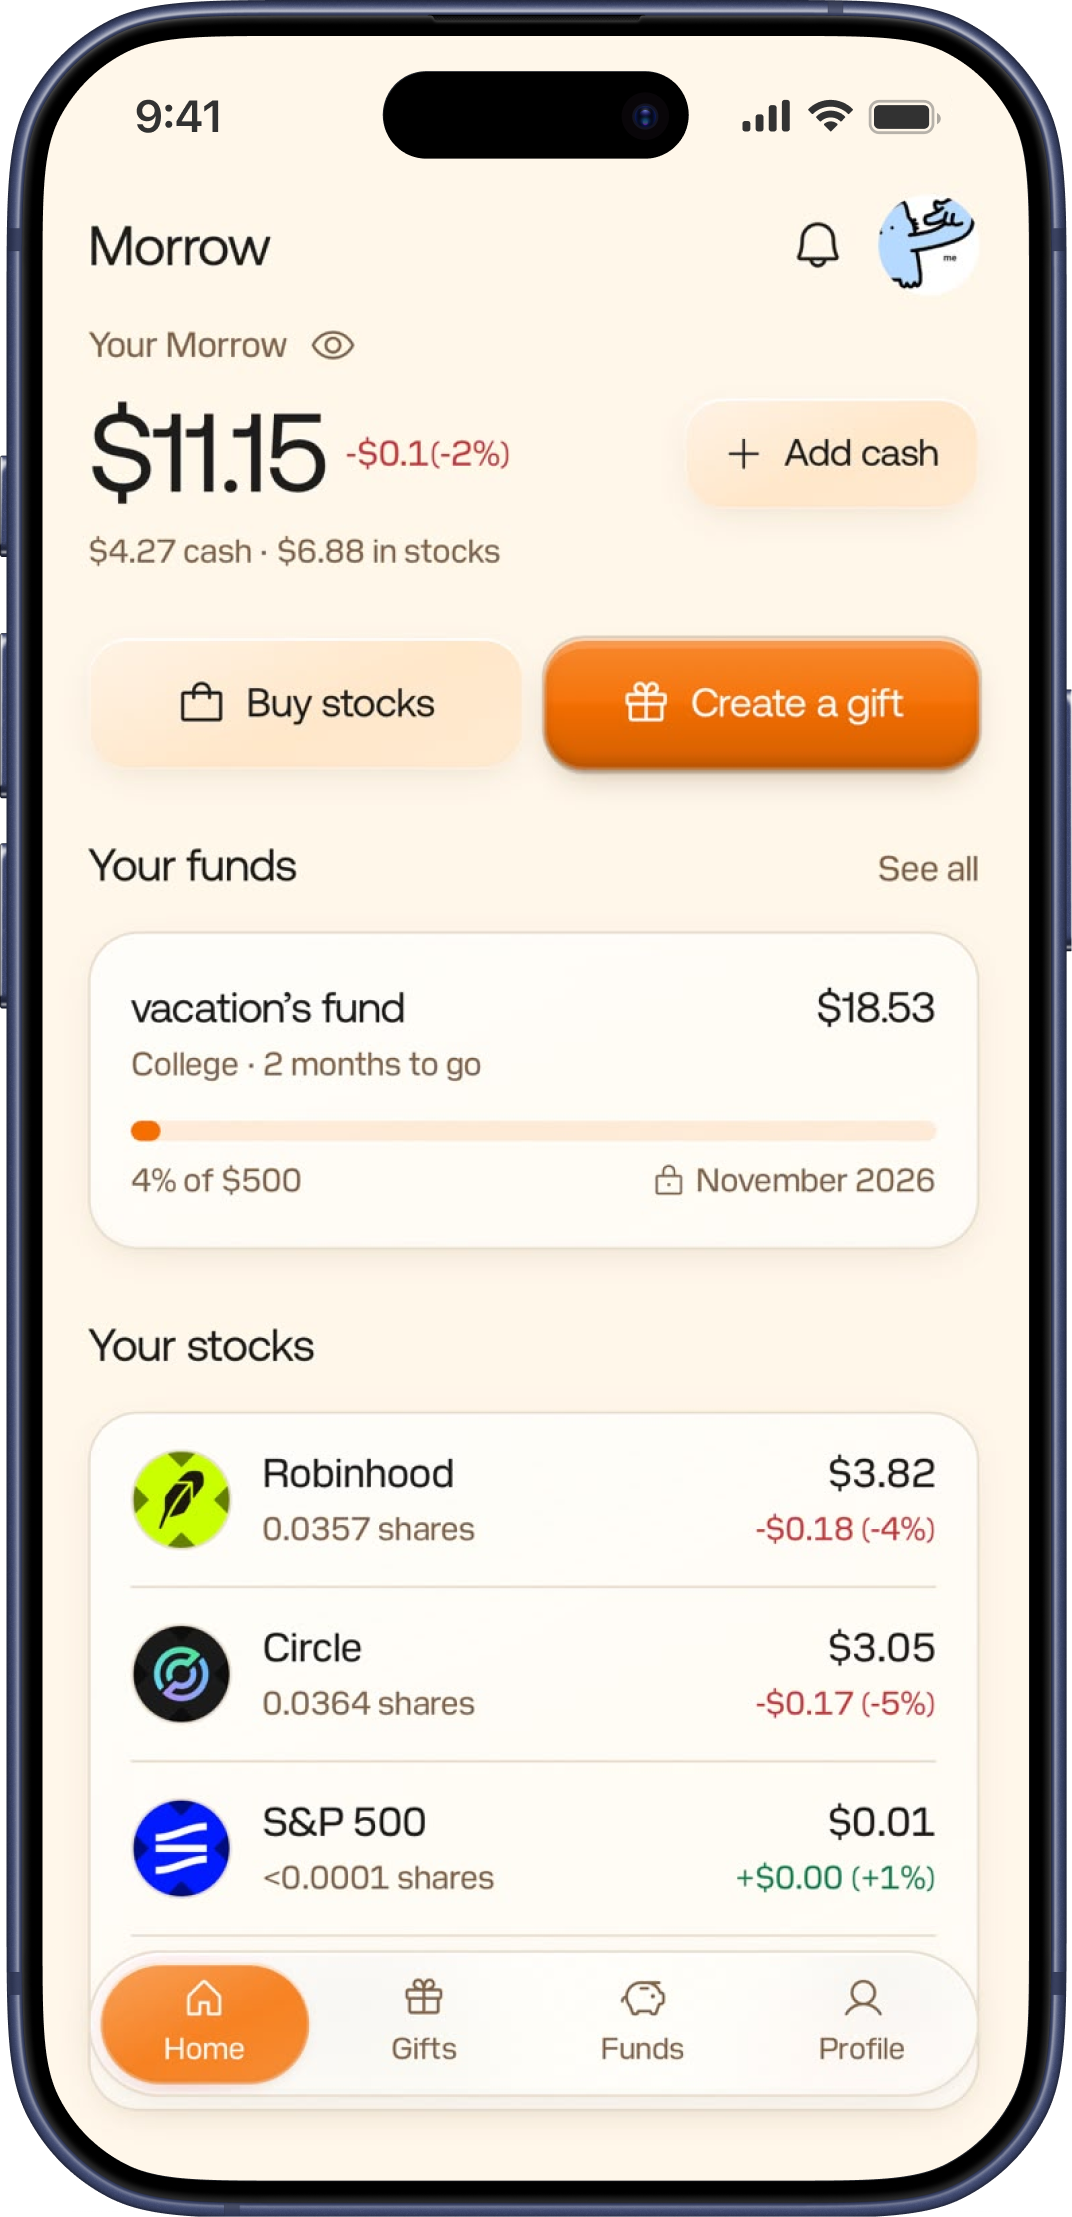
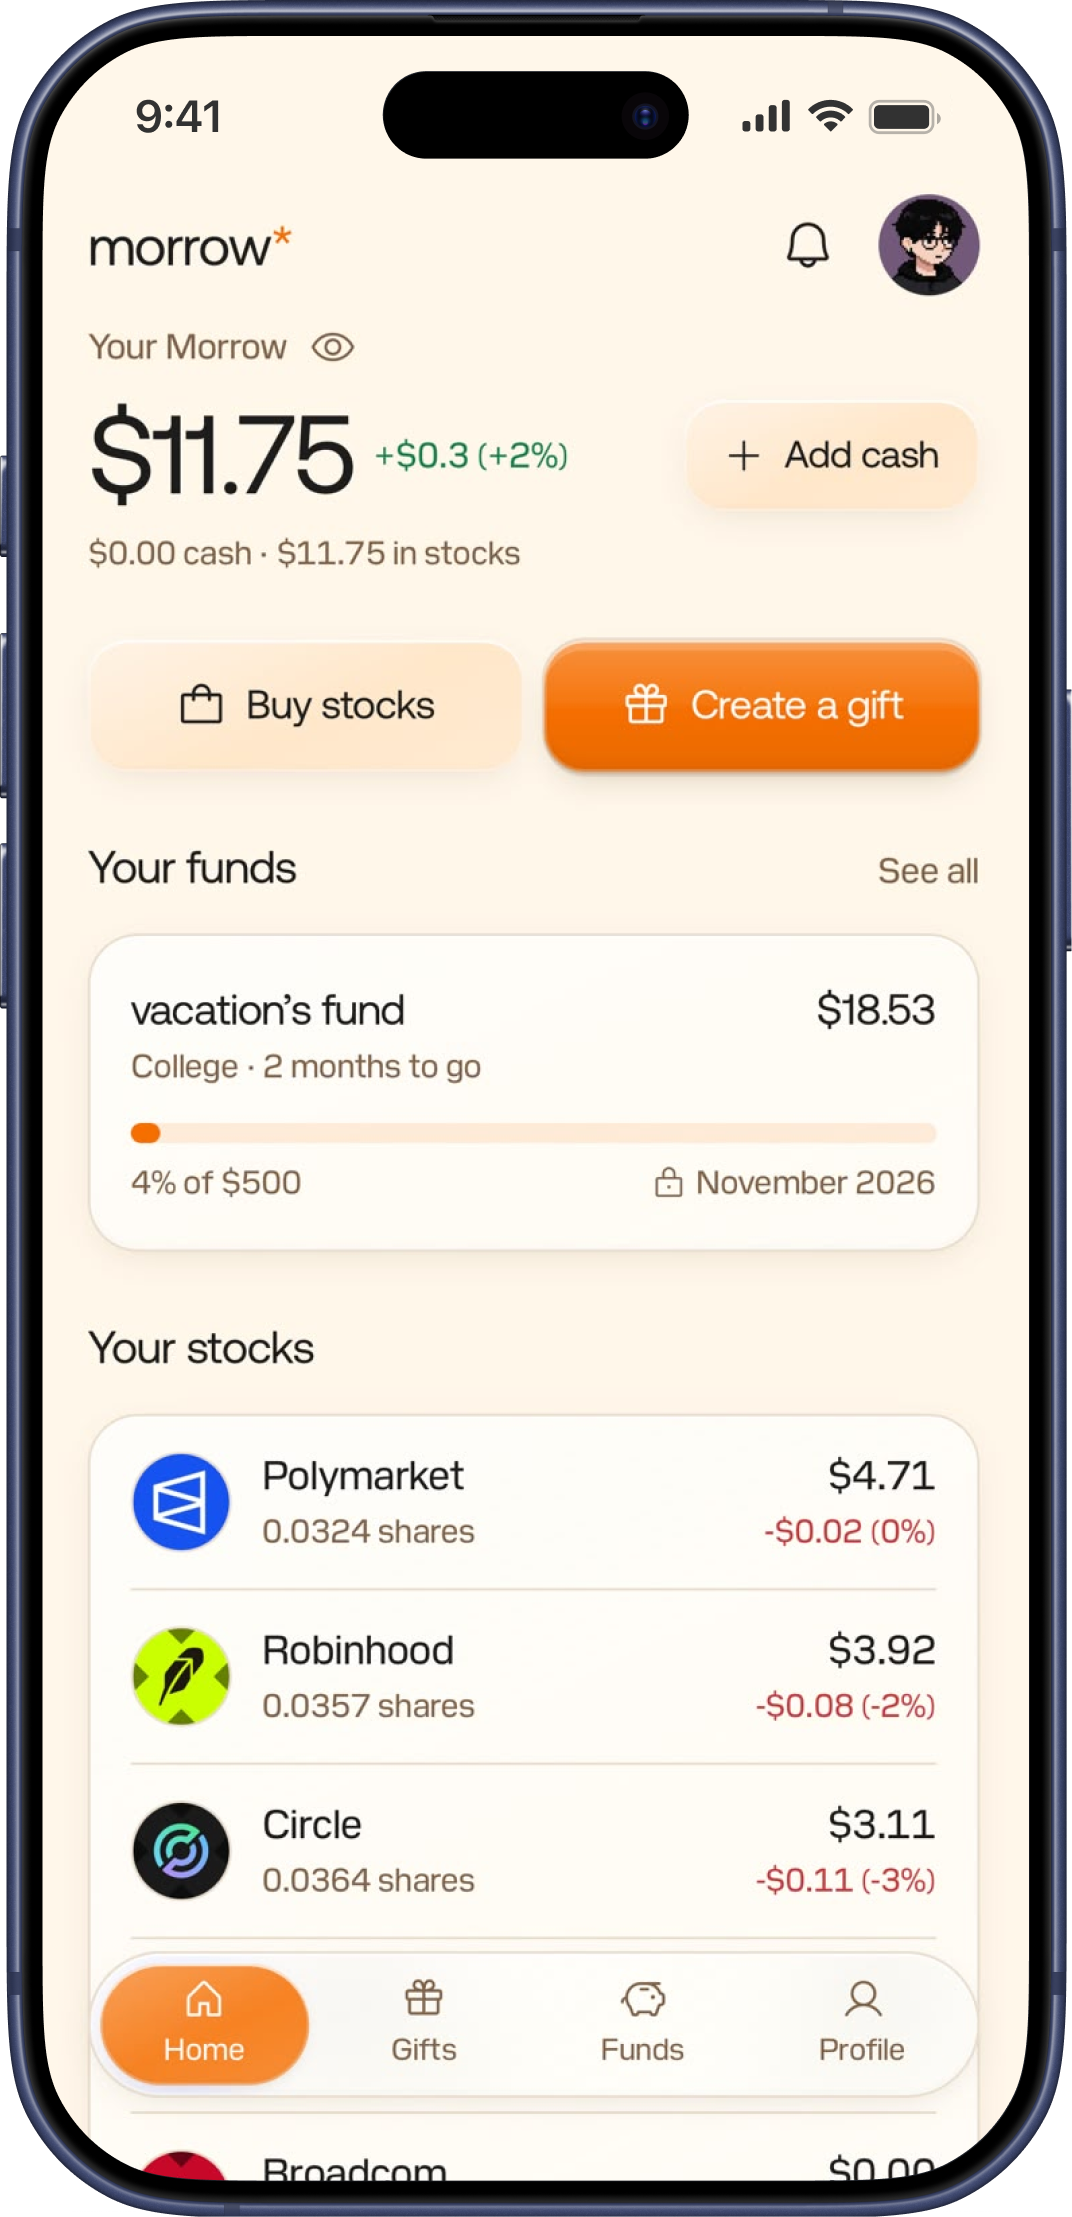
feat(landing): put buying and selling next to gifting
Trading was only visible inside the app tour, so the page read as gifts
alone. The hero now says "Buy, gift, grow.", the meta title and description
lead with buying and selling shares, the feature card covers selling back to
cash, and the cluster gains a card for it beside the gift.

Footer socials lose the pastel cards for plain icon links.

diff --git a/apps/landing/src/lib/components/home-content.svelte b/apps/landing/src/lib/components/home-content.svelte
@@ -16,16 +16,16 @@ import StockMark from './stock-mark.svelte'
 
 const tourScreens = [
   {
+    src: '/images/buy-screen.png',
+    title: 'Buy a little',
+    text: 'Search 142 stocks and Pre-IPO stocks, then start trade.',
+    icon: MagnifyingGlassIcon,
+  },
+  {
     src: '/images/trade-screen.png',
     title: 'Trade in a tap',
     text: 'Live prices, simple charts, and one-tap buys.',
     icon: CurrencyDolarIcon,
-  },
-  {
-    src: '/images/buy-screen.png',
-    title: 'Buy a little',
-    text: 'Search 142 stocks and start with a fraction of a share.',
-    icon: MagnifyingGlassIcon,
   },
   {
     src: '/images/fund-screen.png',
@@ -84,15 +84,15 @@ onMount(() => {
           id="hero-title"
           class="mx-auto max-w-page font-sans text-[clamp(48px,8.8vw,126px)] leading-[0.92] tracking-[-0.075em]"
         >
-          <span class="block">A little gift,</span><span class="block text-orange"
+          <span class="block">Buy, gift, grow.</span><span class="block text-orange"
             >A big tomorrow.</span
           >
         </h1>
         <p
           class="mx-auto mt-7 max-w-90 text-sm leading-relaxed text-stone md:max-w-110 md:text-base"
         >
-          Give stocks. Send cash. Build a future together.<br class="hidden sm:block" /> A little today
-          can mean a lot tomorrow.
+          Send cash, Buy stocks, Gift them. Build a future together.<br class="hidden sm:block" /> A little
+          today can mean a lot tomorrow.
         </p>
         <a
           href="https://app.trymorrow.money/login"
@@ -142,8 +142,8 @@ onMount(() => {
         </div>
       </div>
       <p class="relative z-30 mt-6 hidden px-5 pb-2 text-xs text-stone md:block">
-        <span class="mr-1.5 rounded-full bg-sun px-2.5 py-1 text-ink">Tiny fees</span> Most gifts cost
-        under 50¢ to send.
+        <span class="mr-1.5 rounded-full bg-sun px-2.5 py-1 text-ink">Tiny fees</span> Most gifts and
+        trades cost under 50¢ to send.
       </p>
       <div
         class="relative z-30 mx-auto hidden max-w-page items-center justify-between gap-4 px-6 pt-2 pb-10 text-[10px] text-stone sm:flex md:px-10 md:text-xs"
@@ -305,9 +305,9 @@ onMount(() => {
             <div class="flex justify-between">
               <StockMark stock="nvidia" color="#fffefb" /><Icon name="chart" size={20} />
             </div>
-            <p class="mt-5 text-xs">A gifts for you.</p>
-            <p class="mt-1 font-sans text-4xl tracking-tighter">Big potential.</p>
-            <p class="mt-4 text-[10px] text-stone">Start with a fraction of a share.</p>
+            <p class="mt-5 text-xs">Nvidia, from a few dollars.</p>
+            <p class="mt-1 font-sans text-4xl tracking-tighter">Start small.</p>
+            <p class="mt-4 text-[10px] text-stone">Fractions of a share, priced live.</p>
           </div>
           <div
             class="gather-card gather-two absolute top-[7%] right-[16%] z-30 w-55 rotate-[9deg] rounded-3xl bg-[#ded1f1] p-5"
@@ -334,7 +334,7 @@ onMount(() => {
           <div
             class="gather-card gather-four absolute top-[66%] right-[13%] z-20 w-57.5 rotate-12 rounded-3xl bg-[#f0d8cd] p-5"
           >
-            <span class="text-[10px] tracking-widest">THE BEST KIND OF NOTIFICATION</span>
+            <span class="text-[12px]">The best kind notification</span>
             <div class="my-5 flex size-12 items-center justify-center rounded-full bg-surface">
               <Icon name="heart" size={25} />
             </div>
@@ -409,9 +409,10 @@ onMount(() => {
             </div>
           </div>
           <div class="px-2 pt-5">
-            <h3 class="text-xl">Big companies. Your little piece.</h3>
+            <h3 class="text-xl">Buy and sell, a little at a time.</h3>
             <p class="mt-2 max-w-92.5 text-sm leading-relaxed text-stone">
-              Buy a fraction of a share in companies you know. Build a portfolio at your own pace.
+              Buy a fraction of a share in companies you know, watch live prices and simple charts,
+              and sell back to cash whenever you like.
             </p>
           </div>
         </article>

diff --git a/apps/landing/src/lib/components/home-footer.svelte b/apps/landing/src/lib/components/home-footer.svelte
@@ -1,32 +1,10 @@
 <script lang="ts">
 import SocialIcon from './social-icon.svelte'
 
-// Pastel tiles reuse the gift card colors from the sections above.
 const socials = [
-  {
-    name: 'x',
-    label: 'X',
-    handle: '@trymorrow',
-    href: 'https://x.com/trymorrow',
-    color: 'bg-sun',
-    tilt: '-rotate-2',
-  },
-  {
-    name: 'reddit',
-    label: 'Reddit',
-    handle: 'r/TRYMORROW',
-    href: 'https://www.reddit.com/r/TRYMORROW/',
-    color: 'bg-[#ded1f1]',
-    tilt: 'rotate-1',
-  },
-  {
-    name: 'linkedin',
-    label: 'LinkedIn',
-    handle: 'Morrow',
-    href: 'https://www.linkedin.com/company/trymorrow',
-    color: 'bg-[#dbe7c9]',
-    tilt: '-rotate-1',
-  },
+  { name: 'x', label: 'X', href: 'https://x.com/trymorrow' },
+  { name: 'reddit', label: 'Reddit', href: 'https://www.reddit.com/r/TRYMORROW/' },
+  { name: 'linkedin', label: 'LinkedIn', href: 'https://www.linkedin.com/company/trymorrow' },
 ] as const
 
 const pageLinks = [
@@ -68,7 +46,7 @@ const year = new Date().getFullYear()
         </a>
       </div>
 
-      <ul class="grid gap-3 sm:grid-cols-3 lg:w-150">
+      <ul class="flex items-center gap-2">
         {#each socials as social}
           <li>
             <a
@@ -76,22 +54,9 @@ const year = new Date().getFullYear()
               target="_blank"
               rel="noopener noreferrer"
               aria-label={`Morrow on ${social.label}`}
-              class="footer-pop group flex min-h-20 items-center gap-3 rounded-card p-3 text-ink focus-visible:outline-cream sm:min-h-36 sm:flex-col sm:items-start sm:justify-between sm:p-4 {social.color} {social.tilt}"
+              class="flex size-12 items-center justify-center rounded-full text-cream/70 transition-colors hover:bg-cream/10 hover:text-cream focus-visible:outline-cream"
+              ><SocialIcon name={social.name} /></a
             >
-              <span class="flex size-11 items-center justify-center rounded-button bg-surface"
-                ><SocialIcon name={social.name} /></span
-              >
-              <span class="flex flex-1 items-end justify-between gap-2 self-stretch sm:flex-none">
-                <span>
-                  <span class="block font-sans text-lg leading-tight">{social.label}</span>
-                  <span class="block text-xs text-ink/60">{social.handle}</span>
-                </span>
-                <span
-                  class="text-lg transition-transform duration-300 group-hover:translate-x-0.5 group-hover:-translate-y-0.5"
-                  aria-hidden="true">↗</span
-                >
-              </span>
-            </a>
           </li>
         {/each}
       </ul>
@@ -105,7 +70,7 @@ const year = new Date().getFullYear()
       class="mt-6 flex flex-col-reverse gap-4 border-t border-cream/10 pt-6 text-xs text-steel sm:flex-row sm:items-center sm:justify-between"
     >
       <div class="flex flex-col gap-3 sm:flex-row sm:items-center sm:gap-6">
-        <p>© {year} Morrow. A little gift, a big tomorrow.</p>
+        <p>© {year} Morrow. Buy, gift, grow.</p>
         <nav aria-label="Footer" class="flex flex-wrap gap-x-5">
           {#each pageLinks as link}
             <a

diff --git a/apps/landing/src/lib/home-motion.ts b/apps/landing/src/lib/home-motion.ts
@@ -125,6 +125,7 @@ export function initHomeMotion(root: HTMLElement) {
           { x: -140, y: 95, rotation: -5, from: 'left' },
           { x: 140, y: 115, rotation: 9, from: 'right' },
           { x: 0, y: 20, rotation: -3, from: 'bottom' },
+          { x: 115, y: 240, rotation: 8, from: 'right' },
         ] as const
         const compact = () => canvas.clientWidth < 768
         // Tall portrait tablets would leave most of the screen empty, so the cluster grows
@@ -190,11 +191,11 @@ export function initHomeMotion(root: HTMLElement) {
               duration: 0.75,
               ease: 'power2.out',
             },
-            0.25 + i * 0.05,
+            0.25 + i * 0.035,
           )
         })
         timeline.to({}, { duration: 0.35 })
-        timeline.to(cards, { opacity: 0, scale: 0.6, duration: 0.35, stagger: 0.03 }, 1.55)
+        timeline.to(cards, { opacity: 0, scale: 0.6, duration: 0.35, stagger: 0.03 }, 1.62)
         timeline.fromTo('.action-words', { autoAlpha: 0 }, { autoAlpha: 1, duration: 0.3 }, 1.8)
         timeline.from(
           '.action-word',

diff --git a/apps/landing/src/routes/+page.svelte b/apps/landing/src/routes/+page.svelte
@@ -3,9 +3,9 @@ import HomeContent from '$lib/components/home-content.svelte'
 import SeoHead from '$lib/components/seo-head.svelte'
 import { siteUrl } from '$lib/site'
 
-const title = 'Morrow — Gift stocks and cash'
+const title = 'Morrow — Buy stocks, gift them, grow together'
 const description =
-  'Give a piece of a real company or send cash with Morrow. Share a gift with someone you care about, or start a fund for their future.'
+  'Buy and sell shares of real companies from a few dollars, gift stocks or cash to someone you care about, and start a fund for their future. All in Morrow.'
 const url = new URL('/', siteUrl).href
 const imageUrl = new URL('/og-image.jpg', siteUrl).href
 const structuredData = JSON.stringify({

diff --git a/apps/landing/src/app.css b/apps/landing/src/app.css
@@ -201,6 +201,10 @@
     /* Centered with calc, not translate, so the scroll animation still measures the real position. */
     left: calc(50% - 117px);
   }
+  .gather-six {
+    top: 78%;
+    right: 3%;
+  }
   /* A full-height stage on a 1376-1440px tall tablet leaves a big gap above the content,
      so cap it by width; the pin still holds it at the top. */
   .together-stage {
